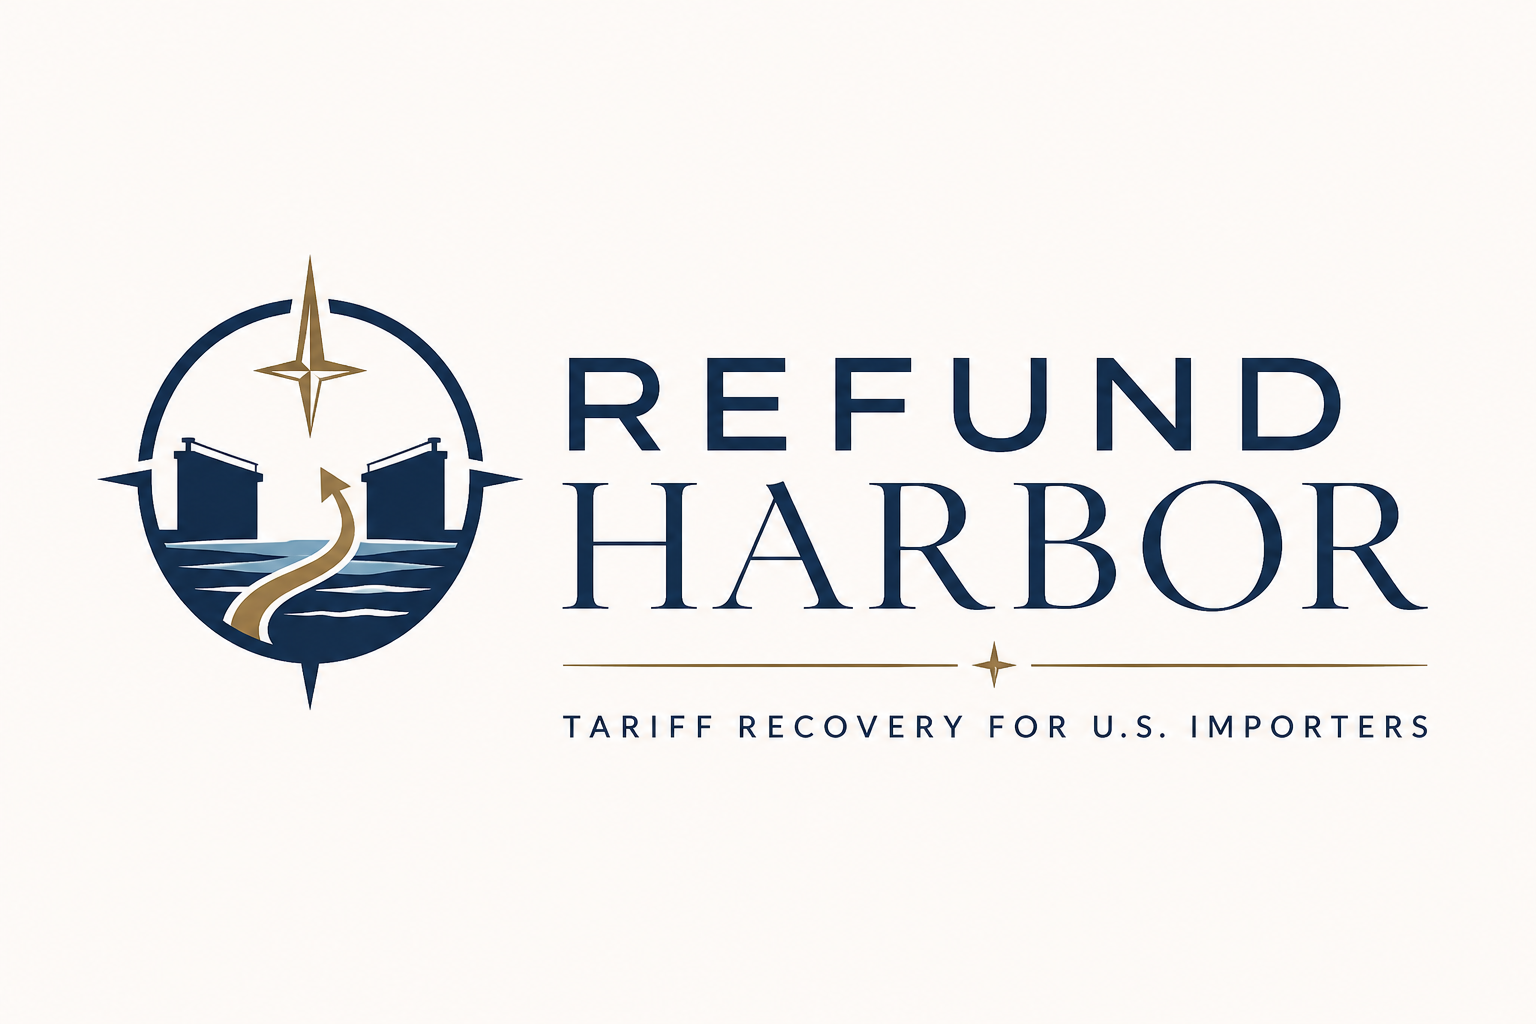
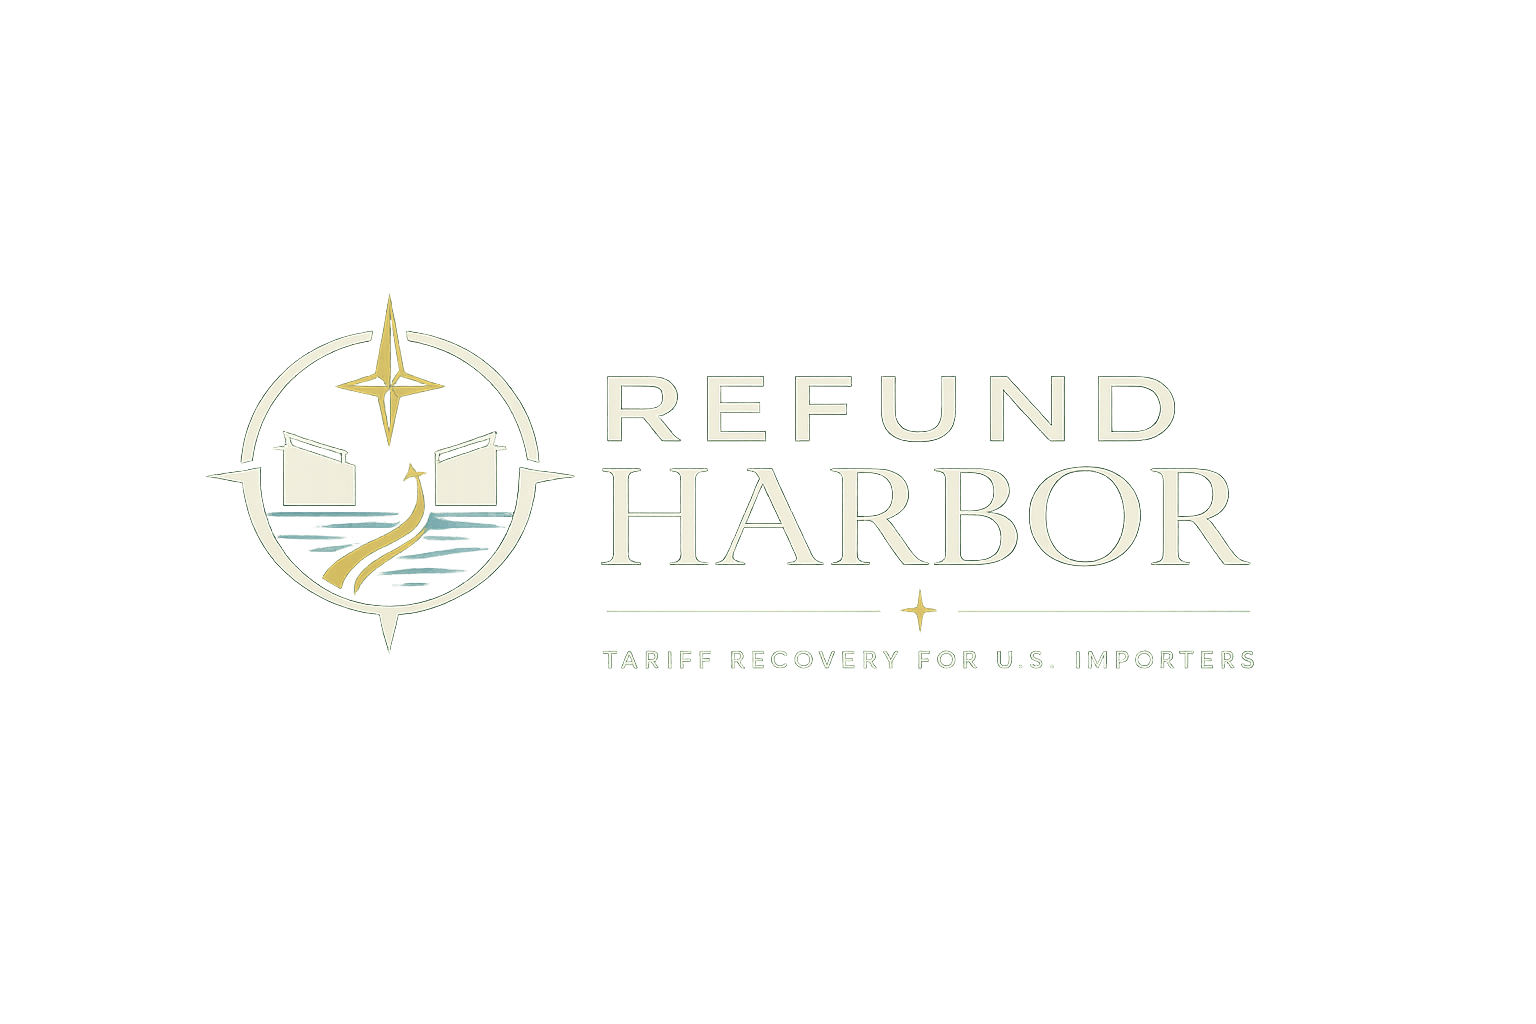
Adopt the new color-compliant PNG; strip stamp pill; route SVG to letter
- The new refundharbor.png is cream/light on transparent and reads
  natively on dark navy. Removed the cream "stamp" pill background
  + border from .header__brand-logo and .footer__brand-logo so the
  logo sits bare; bumped the heights slightly (40 px header,
  52 px footer) to use the recovered space.
- The letter page sits on cream paper, where the new cream-on-dark
  PNG would disappear. Swapped letter__head to refundharbor-alt.svg
  (the navy-on-light Mariner's Mark variant), which reads correctly
  on cream.
- refundharbor-alt.svg colors are now hard-coded (navy #0a2540 +
  gold #b8956b) instead of currentColor, since <img> doesn't carry
  CSS color across the document boundary.
- logo-preview.html updated to describe this as a two-variant
  system (cream PNG for dark contexts, navy SVG for light) rather
  than a "pick one" comparison; cells now show which variant is
  designed for each background and which is the mismatch.

diff --git a/logo-preview.html b/logo-preview.html
@@ -153,13 +153,15 @@
 <section class="section preview-page">
   <div class="container">
 
-    <h1>Logo design &mdash; comparison</h1>
-    <p class="lead">Current PNG vs. the new "Mariner's Mark" SVG alternative.</p>
+    <h1>Logo system &mdash; preview</h1>
+    <p class="lead">Two complementary variants, one for each color context.</p>
     <p class="note">
-      Each row is the same logo pair rendered at three sizes (large &middot; medium &middot; small)
-      on a different background context. The PNG is the design you have now; the SVG is the
-      proposed alternative, themed with <code style="font-size: 12px; background: var(--color-cream); padding: 1px 4px;">currentColor</code>
-      so the same file works on light and dark backgrounds.
+      <strong>refundharbor.png</strong> &mdash; cream-on-navy, designed for dark backgrounds
+      (header, footer, disclosure bar). <strong>refundharbor-alt.svg</strong> &mdash; navy-on-light,
+      "Mariner's Mark" variant designed for cream / white backgrounds (letter page, future
+      light sections). Each row below shows both at three sizes, on the background context
+      it&rsquo;s designed for &mdash; plus the mismatched pair, to make the why-two-variants
+      reasoning visible.
     </p>
 
     <!-- ON CREAM (matches site cream sections / letter page) -->
@@ -167,20 +169,26 @@
       <div class="preview-row__label">On cream background &middot; <span style="color: var(--color-text-muted); letter-spacing: 0.08em;">letter page, founder panel, "how it works"</span></div>
       <div class="preview-cols">
         <div class="preview-cell">
-          <h3>Current (PNG)</h3>
+          <h3>Wrong context &mdash; cream PNG won&rsquo;t read</h3>
           <div class="preview-stack">
             <div><div class="preview-size-label">100 px</div><div class="png-lg"><img src="refundharbor.png" alt="Refund Harbor"></div></div>
             <div><div class="preview-size-label">56 px (header)</div><div class="png-md"><img src="refundharbor.png" alt="Refund Harbor"></div></div>
             <div><div class="preview-size-label">32 px</div><div class="png-sm"><img src="refundharbor.png" alt="Refund Harbor"></div></div>
           </div>
+          <p style="font-size: 12.5px; color: var(--color-text-muted); margin: 18px 0 0; line-height: 1.6;">
+            The cream-on-dark PNG disappears against cream paper. Need the SVG variant here.
+          </p>
         </div>
         <div class="preview-cell">
-          <h3>Alternative (SVG)</h3>
+          <h3>Designed for this context &mdash; SVG (navy-on-light)</h3>
           <div class="preview-stack svg-cream">
             <div><div class="preview-size-label">100 px</div><div class="svg-lg"><img src="refundharbor-alt.svg" alt="Refund Harbor — alternative"></div></div>
-            <div><div class="preview-size-label">56 px (header)</div><div class="svg-md"><img src="refundharbor-alt.svg" alt="Refund Harbor — alternative"></div></div>
+            <div><div class="preview-size-label">56 px (letter page &mdash; production)</div><div class="svg-md"><img src="refundharbor-alt.svg" alt="Refund Harbor — alternative"></div></div>
             <div><div class="preview-size-label">32 px</div><div class="svg-sm"><img src="refundharbor-alt.svg" alt="Refund Harbor — alternative"></div></div>
           </div>
+          <p style="font-size: 12.5px; color: var(--color-text-muted); margin: 18px 0 0; line-height: 1.6;">
+            "Mariner's Mark" SVG &mdash; horizon line, gold north star, bathymetric arcs, serif wordmark.
+          </p>
         </div>
       </div>
     </div>
@@ -190,25 +198,25 @@
       <div class="preview-row__label">On dark navy background &middot; <span style="color: rgba(245,241,232,0.5); letter-spacing: 0.08em;">header, footer, hero, disclosure bar</span></div>
       <div class="preview-cols">
         <div class="preview-cell">
-          <h3>Current (PNG, needs cream stamp)</h3>
+          <h3>Designed for this context &mdash; PNG (cream-on-navy)</h3>
           <div class="preview-stack">
-            <div><div class="preview-size-label">100 px (in stamp)</div><div class="png-lg"><div class="png-stamp"><img src="refundharbor.png" alt="Refund Harbor"></div></div></div>
-            <div><div class="preview-size-label">56 px (header — current production)</div><div class="png-md"><div class="png-stamp"><img src="refundharbor.png" alt="Refund Harbor"></div></div></div>
-            <div><div class="preview-size-label">32 px (in stamp)</div><div class="png-sm"><div class="png-stamp"><img src="refundharbor.png" alt="Refund Harbor"></div></div></div>
+            <div><div class="preview-size-label">100 px</div><div class="png-lg"><img src="refundharbor.png" alt="Refund Harbor"></div></div>
+            <div><div class="preview-size-label">56 px (header — production)</div><div class="png-md"><img src="refundharbor.png" alt="Refund Harbor"></div></div>
+            <div><div class="preview-size-label">32 px</div><div class="png-sm"><img src="refundharbor.png" alt="Refund Harbor"></div></div>
           </div>
           <p style="font-size: 12.5px; color: rgba(245,241,232,0.55); margin: 18px 0 0; line-height: 1.6;">
-            Note: the navy elements of the PNG can&rsquo;t read on the navy background &mdash; we add the cream &ldquo;stamp&rdquo; pill on the live site to give it the contrast it needs.
+            New color-compliant PNG. Sits bare on the dark navy &mdash; no cream &ldquo;stamp&rdquo; needed.
           </p>
         </div>
         <div class="preview-cell">
-          <h3>Alternative (SVG, bare on navy)</h3>
-          <div class="preview-stack svg-navy">
+          <h3>Wrong context &mdash; navy SVG won&rsquo;t read</h3>
+          <div class="preview-stack">
             <div><div class="preview-size-label">100 px</div><div class="svg-lg"><img src="refundharbor-alt.svg" alt="Refund Harbor — alternative"></div></div>
             <div><div class="preview-size-label">56 px (header)</div><div class="svg-md"><img src="refundharbor-alt.svg" alt="Refund Harbor — alternative"></div></div>
             <div><div class="preview-size-label">32 px</div><div class="svg-sm"><img src="refundharbor-alt.svg" alt="Refund Harbor — alternative"></div></div>
           </div>
           <p style="font-size: 12.5px; color: rgba(245,241,232,0.55); margin: 18px 0 0; line-height: 1.6;">
-            Bare on the dark navy. The currentColor trick recolors the navy elements to cream automatically &mdash; no stamp needed, and the gold elements still read.
+            Why two variants: navy on navy is invisible. The SVG is for light contexts only.
           </p>
         </div>
       </div>
@@ -239,30 +247,35 @@
 
     <!-- Design notes -->
     <div class="preview-notes">
-      <h2>What's different about the alternative</h2>
-      <ul>
-        <li><strong>Composition.</strong> Replaces the boat with a <em>horizon line</em>, a four-point <em>gold north star</em> above, and three <em>bathymetric depth arcs</em> below. Same harbor metaphor, less literal.</li>
-        <li><strong>Type.</strong> Wordmark in <em>Source Serif Pro Bold</em> instead of bold sans &mdash; pairs with the site's existing serif headlines, reads more institutional.</li>
-        <li><strong>Tagline lockup.</strong> Two small gold stars flank the tagline with a hairline gold rule separating it from the wordmark &mdash; same family as the current decoration, slightly more refined.</li>
-        <li><strong>Bi-modal coloring.</strong> Navy elements use <code style="font-size: 12px;">currentColor</code>. Set <code style="font-size: 12px;">color: cream</code> on dark backgrounds, <code style="font-size: 12px;">color: navy</code> on light. One file works everywhere &mdash; no cream stamp pill required on the navy header.</li>
-        <li><strong>Format.</strong> SVG instead of PNG. Crisp at every size including retina and print. ~2 KB file size. Themeable with CSS.</li>
-      </ul>
-
-      <h2 style="margin-top: 28px;">What stayed the same</h2>
-      <ul>
-        <li>Navy + muted gold palette.</li>
-        <li>Circular mark, with diagonal compass tick marks at the corners.</li>
-        <li>"REFUND / HARBOR" stacked in all caps, with the same overall horizontal lockup proportion as the current.</li>
-        <li>The tagline "TARIFF RECOVERY FOR U.S. IMPORTERS" with gold accent stars.</li>
-      </ul>
-
-      <h2 style="margin-top: 28px;">If you want to ship this</h2>
+      <h2>The two-variant system, in plain language</h2>
       <p>
-        Say the word and I&rsquo;ll swap <code style="font-size: 12.5px;">refundharbor.png</code> &rarr;
-        <code style="font-size: 12.5px;">refundharbor-alt.svg</code> in every header, footer, and the letter
-        page, drop the cream stamp pill from the header/footer styles (no longer needed), and ship.
-        Or, if you want to keep this as a backup and stay with the current PNG, no harm done &mdash; both
-        live in the repo.
+        Each variant is designed for the background it shows up on. Putting either one on the
+        wrong background fails &mdash; that&rsquo;s by design, not a bug.
+      </p>
+      <ul>
+        <li><strong>refundharbor.png</strong> &mdash; cream/light elements on a transparent ground.
+          Lives on the dark navy <strong>header</strong>, <strong>footer</strong>, and
+          <strong>disclosure bar</strong>. Bare, no stamp pill.</li>
+        <li><strong>refundharbor-alt.svg</strong> &mdash; navy elements on a transparent ground.
+          Lives on the cream paper of the <strong>letter page</strong>, and on any future
+          light/cream/white section. The "Mariner's Mark" composition: outer ring, horizon line,
+          four-point gold north star, three gold bathymetric depth arcs, serif wordmark, hairline
+          gold rule, tagline with gold stars.</li>
+      </ul>
+
+      <h2 style="margin-top: 28px;">Production routing</h2>
+      <ul>
+        <li><strong>index.html</strong>, <strong>disclosures.html</strong>, <strong>privacy.html</strong>, <strong>terms.html</strong>, <strong>insights/*</strong> &mdash; header and footer use the PNG (dark navy).</li>
+        <li><strong>letter.html</strong> &mdash; header/footer use the PNG; the letter-paper head uses the SVG (cream paper).</li>
+        <li><strong>favicon</strong> &mdash; <code style="font-size: 12.5px;">favicon.svg</code> (the small compass mark) stays. PNGs lose crispness at 16/32 px.</li>
+      </ul>
+
+      <h2 style="margin-top: 28px;">If a future section needs the other variant</h2>
+      <p>
+        Adding a navy section on the homepage where the dark logo wouldn&rsquo;t read? Use
+        the PNG. Adding a white-background panel where the cream logo wouldn&rsquo;t read?
+        Use the SVG. The pattern is: pick the variant designed for the background, not the
+        one you used last time.
       </p>
     </div>
 

diff --git a/styles.css b/styles.css
@@ -181,23 +181,20 @@ em { color: var(--color-gold-light); font-style: italic; }
 }
 .header__brand-mark svg { width: 100%; height: 100%; display: block; }
 
-/* PNG brand lockup, sitting on a cream "stamp" so the navy logo
-   reads correctly against the dark navy header. */
+/* PNG brand lockup — the cream-on-navy logo sits bare on the dark
+   header. (Earlier the navy-on-cream PNG needed a cream "stamp"
+   pill background here; the new color-compliant PNG doesn't.) */
 .header__brand-logo {
   display: inline-flex;
   align-items: center;
-  background: var(--color-cream);
-  padding: 5px 12px;
-  border: 1px solid rgba(184, 149, 107, 0.22);
 }
 .header__brand-logo img {
-  height: 34px;
+  height: 40px;
   width: auto;
   display: block;
 }
 @media (max-width: 540px) {
-  .header__brand-logo { padding: 4px 10px; }
-  .header__brand-logo img { height: 28px; }
+  .header__brand-logo img { height: 32px; }
 }
 .header__nav {
   display: flex;
@@ -956,17 +953,14 @@ em { color: var(--color-gold-light); font-style: italic; }
 }
 .footer__brand-mark svg { width: 100%; height: 100%; display: block; }
 
-/* Footer variant of the cream brand stamp */
+/* Footer logo — bare on the dark navy, matching the header. */
 .footer__brand-logo {
   display: inline-flex;
   align-items: center;
-  background: var(--color-cream);
-  padding: 8px 16px;
-  border: 1px solid rgba(184, 149, 107, 0.25);
   margin-bottom: 18px;
 }
 .footer__brand-logo img {
-  height: 44px;
+  height: 52px;
   width: auto;
   display: block;
 }

diff --git a/letter.html b/letter.html
@@ -47,7 +47,9 @@
     <article class="letter">
       <div class="letter__head">
         <span class="letter__head-logo">
-          <img src="refundharbor.png" alt="Refund Harbor — Tariff Recovery for U.S. Importers">
+          <!-- The cream-on-dark PNG won't read on this cream paper, so the
+               letter uses the navy-on-light SVG variant of the brand mark. -->
+          <img src="refundharbor-alt.svg" alt="Refund Harbor — Tariff Recovery for U.S. Importers">
         </span>
       </div>
 
